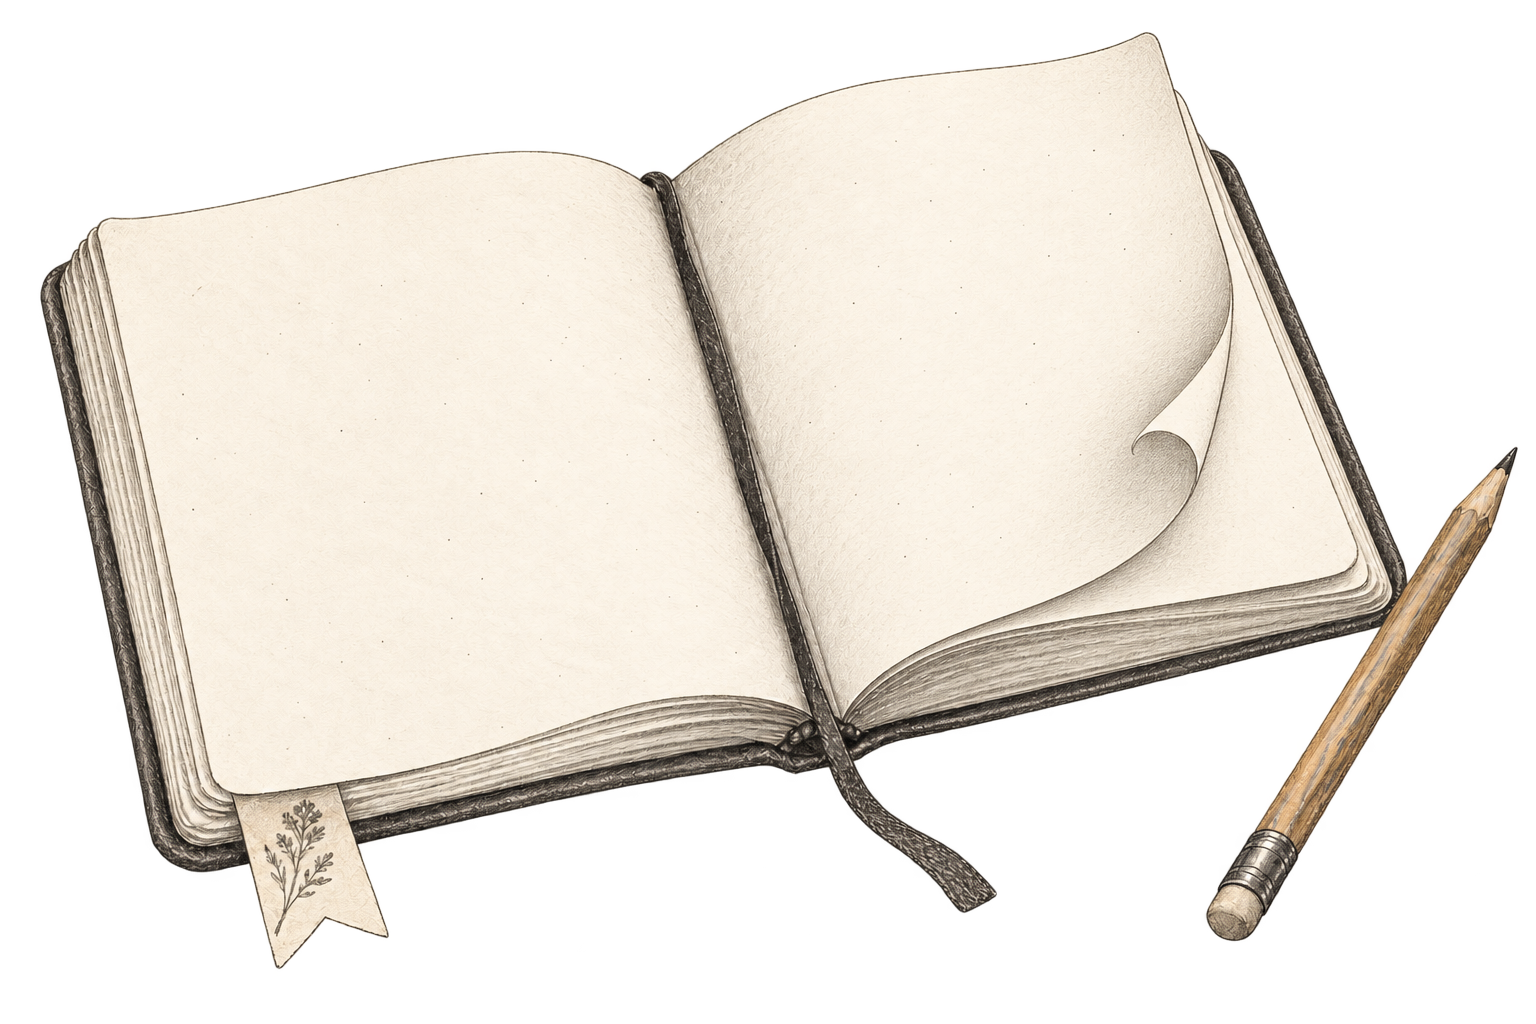
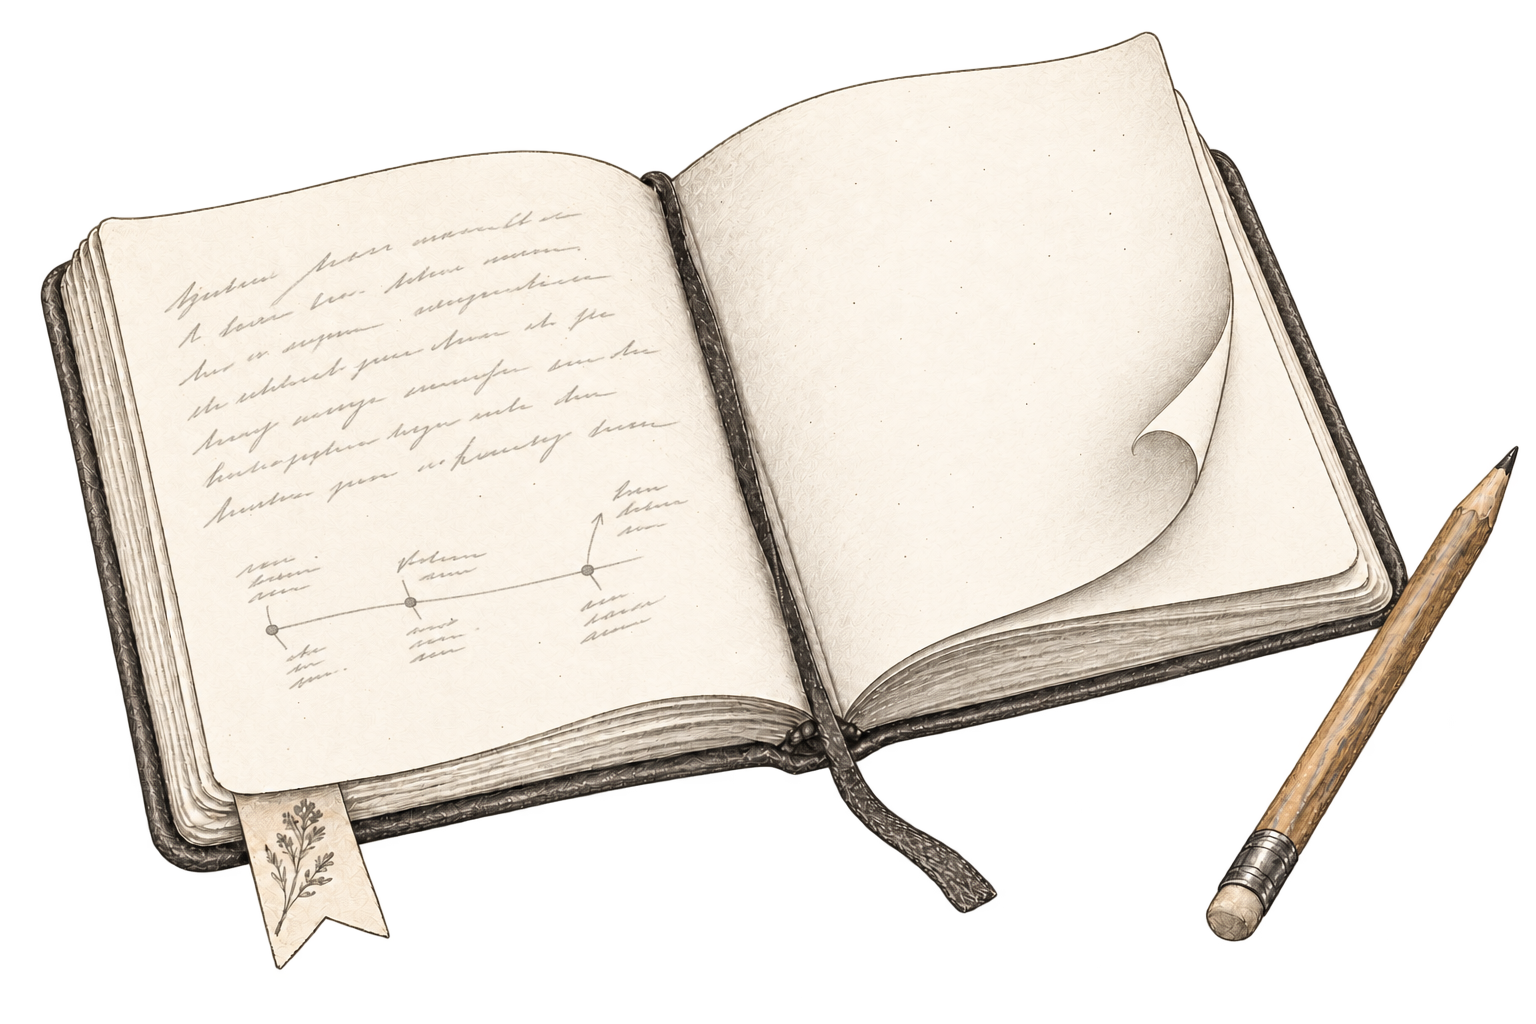
Editorial illustrations and product-name styling (#10)
* feat(site): add editorial artwork and product-name styling

* fix(site): align the creator link with footer navigation

diff --git a/src/styles/site.css b/src/styles/site.css
@@ -5,6 +5,7 @@
 }
 * { box-sizing: border-box; }
 body { margin: 0; background: var(--paper); color: var(--ink); font: 17px/1.65 system-ui, sans-serif; }
+.product-name { font-weight: 700; font-style: italic; }
 a { color: inherit; text-underline-offset: .22em; }
 a:hover { text-decoration-thickness: 2px; }
 a:focus-visible, button:focus-visible { outline: 2px solid var(--ink); outline-offset: 5px; }
@@ -77,13 +78,14 @@ figcaption { color: var(--muted); font-size: 13px; margin-top: 12px; }
 .browse-controls button { width: 48px; height: 48px; border: 1px solid var(--line); background: var(--paper); color: var(--ink); cursor: pointer; }
 .browse-controls button:disabled { opacity: .4; cursor: default; }
 .browse-controls svg { width: 22px; height: 22px; vertical-align: middle; }
-.ownership { display: grid; grid-template-columns: 1fr 1fr; gap: 60px; }
-.ownership p:first-child { margin-top: 0; }
+.ownership { display: grid; grid-template-columns: .85fr 1.15fr; gap: 64px; align-items: center; }
+.ownership-art { width: min(340px, 100%); margin-inline: auto; }
 .ownership a,.phone a { display: inline-block; margin-top: 20px; min-height: 44px; }
 .phone { display: grid; grid-template-columns: 1fr 300px; gap: 80px; align-items: center; }
 .site-footer { padding: 28px 0 40px; border-top: 1px solid var(--line); font-size: 13px; color: var(--muted); display: flex; justify-content: space-between; gap: 24px; flex-wrap: wrap; }
 .site-footer nav { gap: 20px; }
 .site-footer p { padding-top: 10px; }
+.site-footer .creator-link { font-size: 13px; color: var(--muted); }
 .skip { position: absolute; top: 0; left: 16px; transform: translateY(-150%); background: var(--paper); padding: 12px; z-index: 5; }
 .skip:focus { transform: translateY(0); }
 .page-heading { padding: 44px 0 48px; max-width: 800px; }
@@ -124,6 +126,7 @@ dialog button { display: block; margin: 0 0 16px auto; font: inherit; min-height
   .highlights,.slide-body,.ownership,.phone { gap: 32px; }
   .highlights { padding-top: 12px; }
   .notebook-art { width: min(340px, 100%); margin-inline: auto; order: 0; }
+  .ownership-art { width: min(260px, 100%); order: 1; }
   .feature-browser { padding: 44px 0 32px; }
   .feature-slide { padding: 24px 20px; }
   .slide-heading { gap: 14px; }

diff --git a/src/content/de.ts b/src/content/de.ts
@@ -8,6 +8,7 @@ export const de = {
   close: 'Bild schließen',
   enlarge: 'Bild in voller Größe ansehen',
   footer: {
+    creator: 'Von Iulian Dita',
     about: 'Über garret & Datenschutz', credits: 'Bildnachweise', issues: 'Problem melden',
     support: 'garret unterstützen', license: 'Freie Software. GPL-3.0-or-later.',
   },

diff --git a/src/content/en.ts b/src/content/en.ts
@@ -6,6 +6,7 @@ export const en = {
   close: 'Close image',
   enlarge: 'View full-size image',
   footer: {
+    creator: 'By Iulian Dita',
     about: 'About & privacy', credits: 'Image credits', issues: 'Report a problem',
     support: 'Support garret', license: 'Free software. GPL-3.0-or-later.',
   },

diff --git a/docs/media/README.md b/docs/media/README.md
@@ -15,4 +15,4 @@ The expanded desktop feature sections also use `cards.png`, `appearances.png`, a
 
 OS symbols come from Tabler Icons under the MIT license; its notice is included in `public/licenses/tabler.txt`.
 
-`src/assets/notebook.png` is an original editorial illustration made for this website. It is decorative and does not depict the application interface. Astro creates an optimized WebP for the site.
+`src/assets/notebook.png` and `src/assets/ownership.png` are original editorial illustrations made for this website. They are decorative and do not depict the application interface. The notebook includes faint manuscript notes and a story timeline; an attic window with greenery accompanies the ownership section. Astro creates optimized WebP images for the site.
